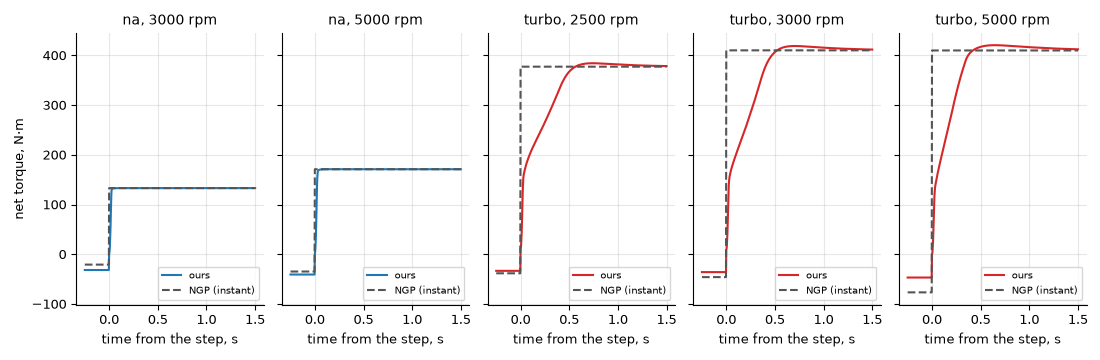
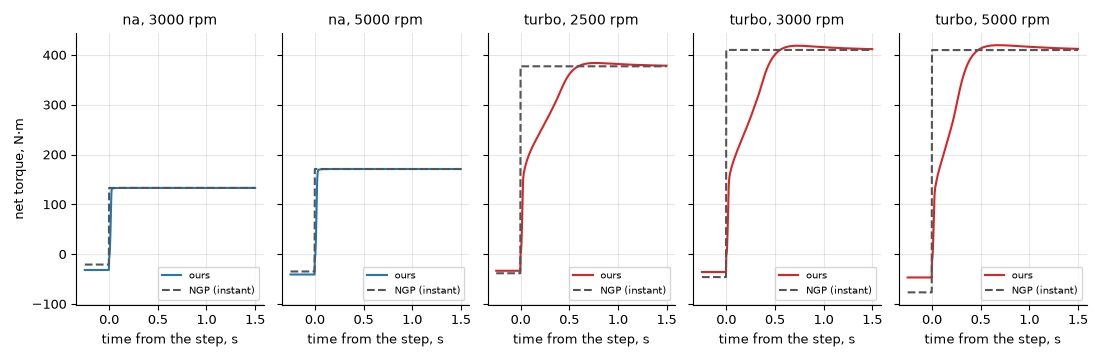
notes/engine-model, figures: residual gas, Link limiter, idle MAP

diff --git a/notes/engine-model.md b/notes/engine-model.md
@@ -38,10 +38,15 @@ the doc comments. Each line gives its evidence: a source (list at the end), or "
   45 mm per cylinder (guess).
 - Manifold 0.8·V_d one throttle, 0.3·V_d per cylinder, 1.0·V_d turbo, boost pipe 2.0·V_d (guess: ITBs have no
   plenum [HPA Alpha-N]; Rally2 caps the restrictor-to-plate volume at 20 L [FIA 261]).
-- W_cyl = η_v·p·V_d·n/(120RT) and the manifold filling dp/dt = RT/V·(W_in − W_cyl) (generic) [Andersson],
+- W_cyl = η_v·η_res·p·V_d·n/(120RT) and the manifold filling dp/dt = RT/V·(W_in − W_cyl) (generic) [Andersson],
   [Hendricks]. Fully implicit Euler, root-solved per sub-step (inferred: the linearly implicit step overshot a
   per-cylinder tip-in to 2.4 bar).
 - η_v: turbo 0.95 flat (guess); NA the WOT table's shape (inferred: the table is mostly breathing).
+- Residual gas: η_res = (r_c − (p_em/p_im)^(1/γ))/(r_c − 1), the ideal cycle's (generic, Heywood; the pressure
+  factor of [arXiv 2012.02859]'s η_v), r_c 11 NA, 9.5 turbo, γ 1.3 (guess: the residual is exhaust; 1.4 for air),
+  p_em of the last step. 1 at p_em = p_im; at idle 0.71 (modern turbos) to 0.87. In W_cyl and the charge; K
+  recalibrates. On turbos the identity runs once more last (after the hold, the gate's base and the idle gains),
+  since the state now feeds back on the charge through p_em (0.16 % off the table otherwise).
 - No leak; idle air instead (inferred: the plate formula closes at 7°, and a sized leak idled every sample
   55–95 N·m fast).
 
@@ -56,8 +61,8 @@ the doc comments. Each line gives its evidence: a source (list at the end), or "
 - The idle air adds to the aim; anti-lag's kick overrides it [MoTeC DBW]. Blips and shift cuts come through the
   interface's throttle (NGP's control unit).
 - Part throttle follows WOT to an rpm then falls at roughly constant power, as BeamNG's model [BeamNG throttle].
-  Peak net torque at pedal 10/20/30/50 %: na 25/43/54/77 %, turbo 12/34/48/60 %, old 27/47/63/93 %, cable_turbo
-  13/25/38/88 % of max (BeamNG 2023: 49/65/76/91 %).
+  Peak net torque at pedal 10/20/30/50 %: na 24/43/54/77 %, turbo 12/34/48/61 %, old 26/46/63/93 %, cable_turbo
+  13/25/37/87 % of max (BeamNG 2023: 49/65/76/91 %).
 
 ## Torque (`calibrate.rs`, `ecu.rs`)
 
@@ -103,7 +108,13 @@ the doc comments. Each line gives its evidence: a source (list at the end), or "
 - When the fuel returns, the overrun air decays to the idle feed-forward with τ 0.5 s (guess), so no air step.
 - Fixed-stop cars have no DFCO (inferred: carbs and mechanical injection keep fuelling through the idle circuit;
   the decel cut-off solenoids were for road emissions).
-- Limiter: ignition cut 0→100 % over RPMLimit + 200 rpm, then fuel [HPA M1 limits], [HPA 171], [Haltech limiter].
+- Limiter, Link's convention: ignition cut 0→100 % from RPMLimit − 200 rpm to RPMLimit, fuel cut from RPMLimit +
+  100 [HPA 084], [HPA 171] (Link G4+: 200 rpm control range settling 100–150 rpm under the limit, hard cut +50 to
+  +200), so RPMLimit is the cap as NGP and the class rules read it (MoTeC's ramp above the limit [HPA M1 limits] let
+  every car run 2–3 % over: Fiesta Rally3 805.6 rad/s on a 785.4 limit in game). Neutral WOT holds the samples 4–99
+  rpm under the limit (up to 18 over on the turbo sample); tested within −200..+50. The calibration's WOT runs
+  leave the limiter out (the table runs to RPMLimit); the tests compare the table with the limiter in only up to
+  RPMLimit − 200.
   The events are picked by deterministic error diffusion (inferred).
 - Shift cut keeps the share TorqueCut, airflow kept [FIA 254A] (S2000 cuts), [CSP powertrain].
 - No combustion below 150 rpm or when stalled [turboford] (crank speeds 150–250 rpm).
@@ -133,13 +144,14 @@ the doc comments. Each line gives its evidence: a source (list at the end), or "
 - Then each knot's boost target is scaled by K_knot/K_median (the charge one K needs) and limited, and A_t refitted;
   twice (inferred: the first target's η_ig leaves out the turbine's back pressure).
 - The table is an upper bound everywhere and exact wherever the air path can make it. On a turbo car, at a grid
-  point where the steady WOT boost misses 98 % of its target, K is held at the median K of the on-boost knots, so the
+  point where the steady WOT boost misses 98 % of its target (`ON_BOOST`, this worker's choice), K is held at the median K of the on-boost knots, so the
   steady torque there falls short of the table. Where the identity gives less than the median (Group A, Rally4 at
   low rpm: tables weaker than physics), K stays. NA cars unchanged. Tested: steady WOT ≤ table + 0.1 % everywhere,
   = table within 0.5 % at every knot not held.
-- Held, 250 rpm steps: turbo sample 250–1250 rpm (worst 11 % short); Rally2, R5 and WRC 2014–2020 250–1250 (12–20 %);
-  Xsara WRC 2006 250–1250 (23 %); Focus WRC 2006 250–1500 (28 %); Alpine A110 RGT 1750 (12 %); Fiesta Rally4 2500
-  (3 %). No other car is held.
+- Held, 250 rpm steps (with the residual gas): turbo sample 500–1250 rpm (worst 9 % short); R5, Rally2 and WRC
+  2014–2020 250–1250 (8.5–16 %; i20 to 1500); Xsara WRC 2006 250–1250 (20 %); Focus WRC 2006 250–1500 (27 %); Alpine
+  A110 RGT 1750 (12 %); Fiesta Rally4 2500 (2.8 %), 208 Rally4 2250 (1.5 %), Fiesta R2 2250 (2.0 %), Delta HF 2750
+  (0.4 %). No other car is held.
 - The wastegate port is 3 nozzles (inferred: 1 could not hold the target with the smaller turbine, 8 gave a limit cycle).
 - ω* does not change K (10 000–20 000 rad/s moved the spread in the third decimal); it sets the spool time through
   ½Jω² (measured). Kept at 15 000.
@@ -171,16 +183,18 @@ the doc comments. Each line gives its evidence: a source (list at the end), or "
 ## Open
 
 - The rally turbos make almost no boost at 1000 rpm, so the [Chalmers] 1000 rpm spool case does not apply to them.
-- Idle MAP with the 27° reserve, against the usual SI idle 25–45 kPa [Gears], [MOTOR], [Tuning School]: samples na
-  29.0, old 22.6, cable_turbo 24.9, turbo 15.0 kPa; RSF modern turbos (Rally2, R5, WRC) 15–17, Group N and R4 16–17,
-  Rally3/4 and R1 20–26, Group A, B, 4 and S1600/S2000/R2/R3 22–30. The friction clamp (s_f 2.0) still lowers it on
-  the turbos.
+- Idle MAP with the 27° reserve and the residual gas, against the usual SI idle 25–45 kPa [Gears], [MOTOR], [Tuning
+  School]: samples na 33.2, old 27.1, cable_turbo 30.0, turbo 20.3 kPa; RSF modern turbos (Rally2, R5, WRC) 20–22,
+  Group N and R4 22–23, Rally3/4 and R1 25–31, Group A, B, 4 and S1600/S2000/R2/R3 23–34. K dominates on the modern
+  turbos: 1.6–1.7e6 J/kg at idle (η_ig ≈ 0.57 of the stoichiometric 2.93e6) against 0.9–1.4e6 elsewhere; friction
+  (17 N·m, s_f clamped to 2.0) and pumping (10 N·m) are like the others'. At η_ig 0.38 they would idle near 28–30 kPa
+  (estimate).
 - At a fixed speed below idle the closed pedal gives up to +166 N·m (turbo sample, 500 rpm; na 65 N·m) with the
   idle air at its 10 % ceiling. In gear at low speed this pushes the car.
 - The spring-gate cable_turbo still overshoots 8–14 % from 5000 rpm up.
-- The turbo sample's part-pedal curves bump at 1500 and dip at 1750 rpm: K steps 1.63e6 (held, to 1250) → 1.54e6
-  (1500, off boost but under the median, so kept) → 1.27e6 (1750, on boost). At part pedal the boost is about the
-  same at each speed, so torque follows K; at WOT the boost rises 1.53 → 2.07 bar and covers it.
+- The turbo sample's part-pedal curves bump at 1500 and dip at 1750 rpm: K steps about 1.6e6 (held, to 1250) → 1.5e6
+  (1500, off boost but under the median, so kept) → 1.3e6 (1750, on boost). At part pedal the boost is about the
+  same at each speed, so torque follows K; at WOT the boost rises about 1.5 → 2.1 bar and covers it.
 - The spark loop saturates (gain about 2°/rpm). The limiter's torque swings each step (mean value per step).
 - DBW part pedal gives less torque than BeamNG's 2023 curves (table above).
 
@@ -219,6 +233,7 @@ the doc comments. Each line gives its evidence: a source (list at the end), or "
 - MoTeC FK8R, overrun throttle aim: https://www.milspecwiring.com/assets/images/11401_honda_civic_fk8r_kit.pdf
 - Autosport, decel vacuum: https://forums.autosport.com/topic/89377-f1-engines-and-engine-braking/
 - HPA M1 limits: https://www.hpacademy.com/courses/motec-m1-software-tutorial/setting-up-m1-for-your-engine-engine-speed-limits/
+- HPA 084, Link limiter: https://www.hpacademy.com/previous-webinars/084-link-g4-rev-limit-configuration/
 - HPA 171, limiter: https://www.hpacademy.com/previous-webinars/171-configuring-the-ultimate-rpm-limiter/
 - Haltech limiter: https://support.haltech.com/portal/en/kb/articles/main-limiter
 - CSP powertrain, cuts keep airflow: https://github.com/AssettoCN/ac-docs/blob/main/docs/en/car/physics/powertrain.md
